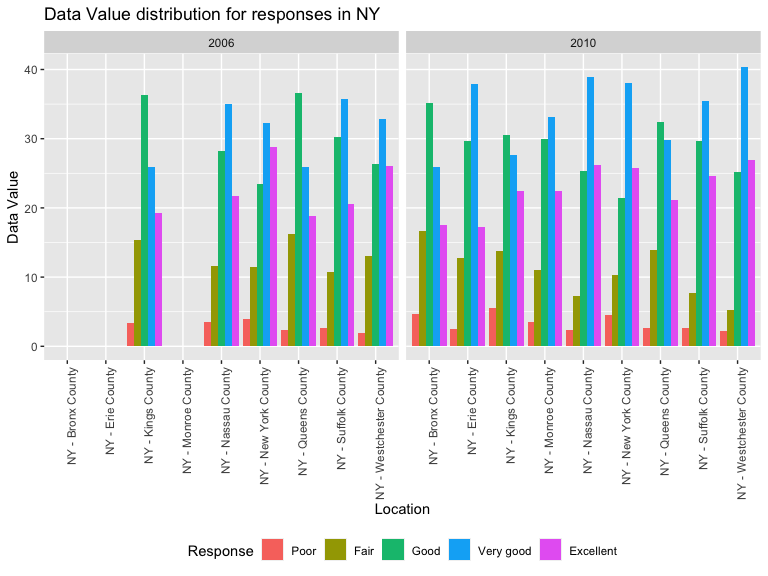
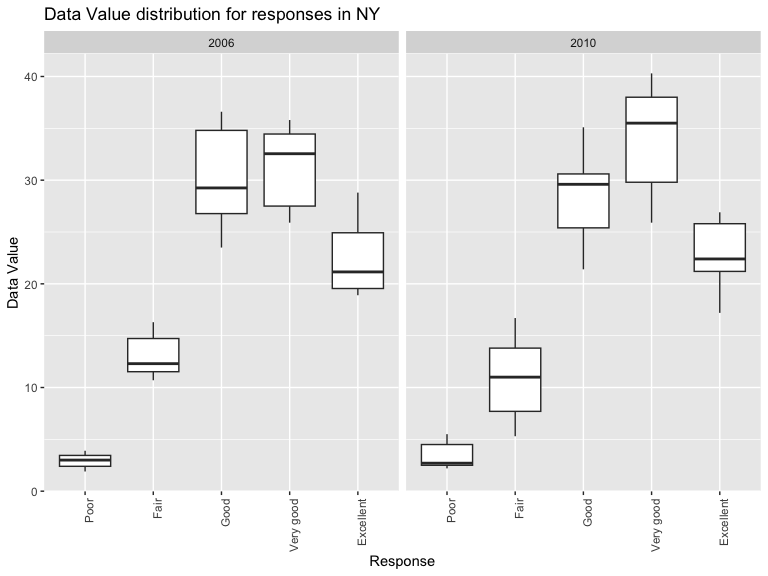
changed to boxplot. updated comments.

diff --git a/p8105_hw3_mf3593.md b/p8105_hw3_mf3593.md
@@ -150,14 +150,13 @@ around 23.
 ``` r
 df_brfss|>
   filter(locationabbr=="NY" & year %in%c(2006,2010))|>
-  ggplot(aes(x=locationdesc,y=data_value,fill=response_fac))+
-  geom_bar(stat="identity",position="dodge")+
+  ggplot(aes(x=response_fac,y=data_value))+
+  geom_boxplot()+
   facet_grid(~year)+
   labs(
     title="Data Value distribution for responses in NY",
-    x="Location",
-    y="Data Value",
-    fill="Response"
+    x="Response",
+    y="Data Value"
   )+
   theme(legend.position="bottom",
         axis.text.x=element_text(angle=90,hjust=1))
@@ -165,16 +164,12 @@ df_brfss|>
 
 <img src="p8105_hw3_mf3593_files/figure-gfm/unnamed-chunk-5-1.png" width="100%" />
 
-The histogram describes data value distribution for responses at
-different locations in NY in the year 2006 and 2010. The x-axis depicts
-different locations and y-axis is Data Value. According to the graph
-Data Value distribution for response in NY, there is no record of
-distribution of data value among responses in 2016 at location Bronx
-County, Erie County and Monroe County which are included in 2010. 2010
-has slightly higher data value for the response “very good” across
-different locations compared to year 2006. Overall, response “very good”
-and “good” have the highest data values and “poor” has the lowest data
-values in NY state in both year 2006 and 2010.
+The bar plot describes data value distribution for responses in NY in
+the year 2006 and 2010. The x-axis depicts different responses and
+y-axis is data value. The distribution in two years look similar. Both
+have most data value in response “Very good” following “Good”. Both have
+lowest data value in response “poor”. 2010 has slightly higher data
+value for “Very good” and “Excellent”.
 
 # Problem 3
 
